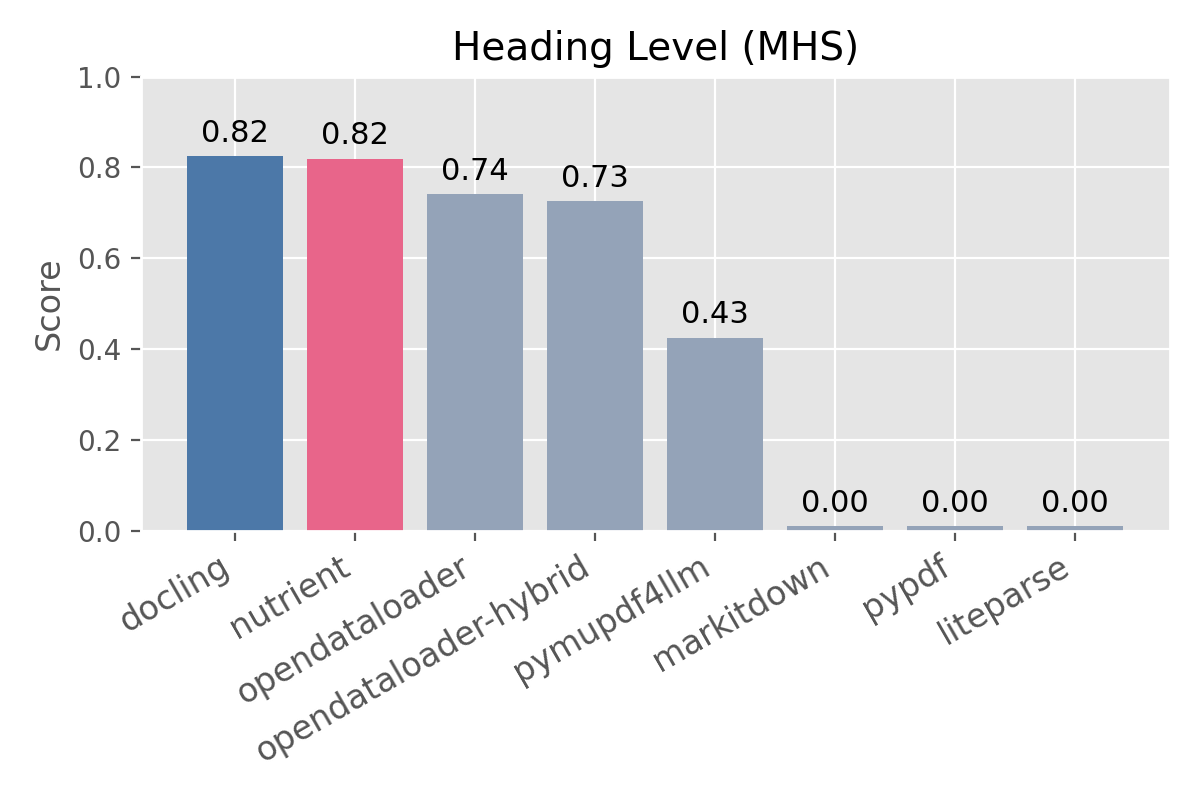
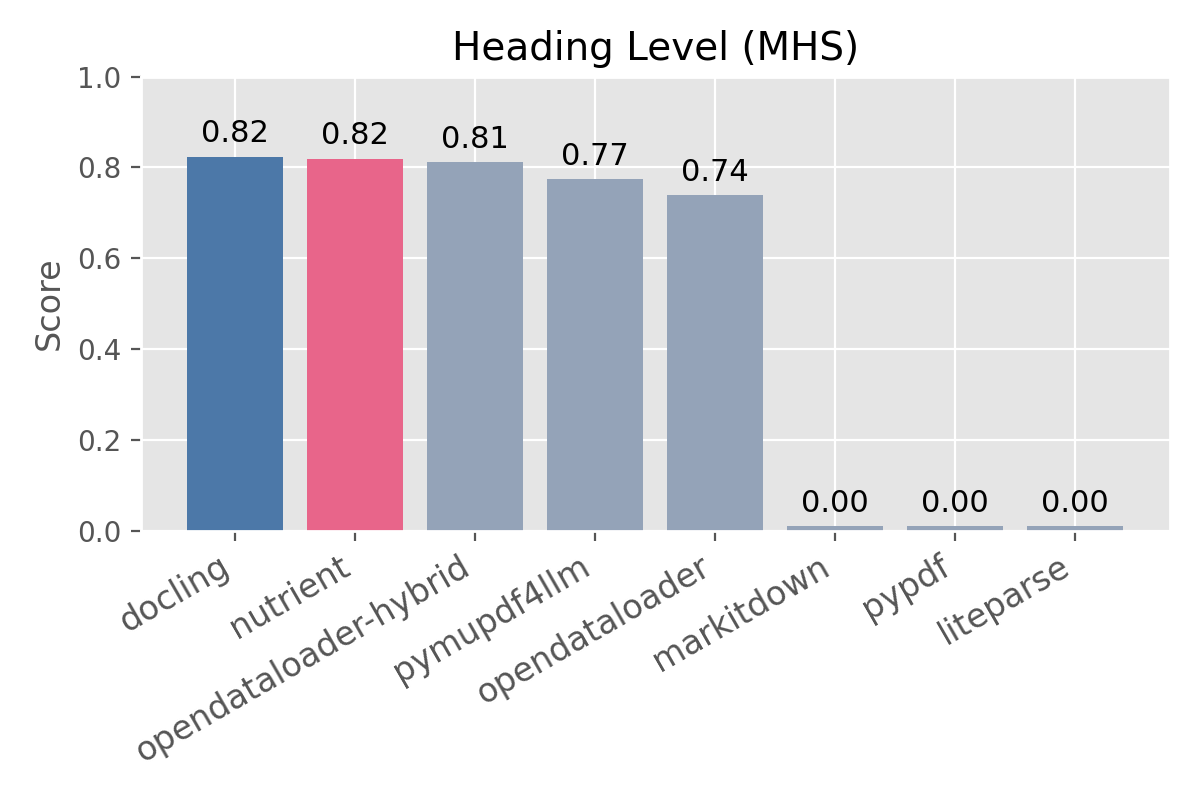
Release 0.2.2: re-benchmark with all latest competitor versions
- Re-run benchmarks with all competitors on latest versions
- Pin exact library versions in tables for transparency
- Fix ODL hybrid (was running without server, now properly configured)
- Key version bumps: pymupdf4llm 0.3.4→1.27.2, opendataloader 1.9.1→2.3.0,
  docling 2.71.0→2.91.0, markitdown 0.1.4→0.1.5
- Refresh chart images from April 23 run
- Bump version to 0.2.2

diff --git a/README.md b/README.md
@@ -14,7 +14,7 @@
 
 Fast, accurate Markdown from PDFs — locally, with no cleanup required. Built for Claude, Codex, RAG pipelines, and document-heavy automation where noisy extraction burns tokens and makes downstream results less reliable.
 
-- **How fast is it?** — 0.007s per page. 87x faster than docling, 10x faster than pymupdf4llm. ([benchmarks](#benchmarks))
+- **How fast is it?** — 0.011s per page. 48x faster than docling, 29x faster than pymupdf4llm. ([benchmarks](#benchmarks))
 - **How accurate is it?** — 0.93 reading order (best in class), 0.89 overall extraction accuracy, 0.82 heading detection. ([benchmarks](#benchmarks))
 - **NEW: Image export** — `--enable-image-export` extracts images alongside Markdown for vision-capable LLMs. ([usage](#image-export))
 - **Where do my PDFs go?** — Nowhere. The CLI runs locally. Your documents are not uploaded to Nutrient. ([trust & licensing](#trust-and-licensing))
@@ -124,56 +124,56 @@ Extracts images from the PDF and saves them to `output_resources/`, referenced a
 
 ## Benchmarks
 
-Benchmark results from 200 PDF documents with hand-annotated Markdown ground truth, evaluated using NID (reading order), TEDS (table structure), and MHS (heading hierarchy) metrics. Benchmarked on `2026-04-22`.
+Benchmark results from 200 PDF documents with hand-annotated Markdown ground truth, evaluated using NID (reading order), TEDS (table structure), and MHS (heading hierarchy) metrics. All competitor libraries pinned to their latest versions as of `2026-04-23`.
 
 ### Visual Snapshot
 
-![Extraction accuracy](https://raw.githubusercontent.com/PSPDFKit/pdf-to-markdown/main/docs/assets/extraction-accuracy.png?v=20260422)
+![Extraction accuracy](https://raw.githubusercontent.com/PSPDFKit/pdf-to-markdown/main/docs/assets/extraction-accuracy.png?v=20260423)
 
-![Reading order](https://raw.githubusercontent.com/PSPDFKit/pdf-to-markdown/main/docs/assets/reading-order.png?v=20260422)
+![Reading order](https://raw.githubusercontent.com/PSPDFKit/pdf-to-markdown/main/docs/assets/reading-order.png?v=20260423)
 
-![Table structure](https://raw.githubusercontent.com/PSPDFKit/pdf-to-markdown/main/docs/assets/table-structure.png?v=20260422)
+![Table structure](https://raw.githubusercontent.com/PSPDFKit/pdf-to-markdown/main/docs/assets/table-structure.png?v=20260423)
 
-![Heading level](https://raw.githubusercontent.com/PSPDFKit/pdf-to-markdown/main/docs/assets/heading-level.png?v=20260422)
+![Heading level](https://raw.githubusercontent.com/PSPDFKit/pdf-to-markdown/main/docs/assets/heading-level.png?v=20260423)
 
-![Extraction speed](https://raw.githubusercontent.com/PSPDFKit/pdf-to-markdown/main/docs/assets/extraction-speed.png?v=20260422)
+![Extraction speed](https://raw.githubusercontent.com/PSPDFKit/pdf-to-markdown/main/docs/assets/extraction-speed.png?v=20260423)
 
-![Faster with Nutrient](https://raw.githubusercontent.com/PSPDFKit/pdf-to-markdown/main/docs/assets/faster-with-nutrient.png?v=20260422)
+![Faster with Nutrient](https://raw.githubusercontent.com/PSPDFKit/pdf-to-markdown/main/docs/assets/faster-with-nutrient.png?v=20260423)
 
 ### Accuracy
 
-| Solution | Overall | Reading Order (NID) | Table Structure (TEDS) | Heading Level (MHS) |
-| --- | ---: | ---: | ---: | ---: |
-| **Nutrient** | **0.89** | **0.93** | 0.71 | 0.82 |
-| docling | 0.88 | 0.90 | **0.89** | **0.82** |
-| opendataloader | 0.84 | 0.91 | 0.49 | 0.74 |
-| opendataloader-hybrid | 0.83 | 0.92 | 0.43 | 0.73 |
-| pymupdf4llm | 0.74 | 0.89 | 0.40 | 0.43 |
-| markitdown | 0.58 | 0.88 | 0.00 | 0.00 |
-| pypdf | 0.58 | 0.87 | 0.00 | 0.00 |
-| liteparse | 0.57 | 0.86 | 0.00 | 0.00 |
+| Solution | Version | Overall | Reading Order (NID) | Table Structure (TEDS) | Heading Level (MHS) |
+| --- | --- | ---: | ---: | ---: | ---: |
+| **Nutrient** | 2.0.2 | **0.89** | **0.93** | 0.71 | 0.82 |
+| docling | 2.91.0 | 0.88 | 0.90 | **0.89** | **0.82** |
+| opendataloader-hybrid | 2.3.0 | 0.87 | 0.91 | 0.68 | 0.81 |
+| pymupdf4llm | 1.27.2 | 0.83 | 0.89 | 0.54 | 0.77 |
+| opendataloader | 2.3.0 | 0.83 | 0.90 | 0.48 | 0.74 |
+| markitdown | 0.1.5 | 0.59 | 0.84 | 0.27 | 0.00 |
+| pypdf | 6.10.2 | 0.58 | 0.87 | 0.00 | 0.00 |
+| liteparse | 1.2.1 | 0.57 | 0.86 | 0.00 | 0.00 |
 
 ### Speed
 
 | Solution | Seconds per page |
 | --- | ---: |
-| **Nutrient** | **0.007** |
-| pypdf | 0.017 |
-| markitdown | 0.038 |
-| opendataloader-hybrid | 0.048 |
-| pymupdf4llm | 0.071 |
-| opendataloader | 0.079 |
-| docling | 0.610 |
-| liteparse | 1.033 |
+| **Nutrient** | **0.011** |
+| pypdf | 0.019 |
+| opendataloader | 0.023 |
+| markitdown | 0.097 |
+| pymupdf4llm | 0.319 |
+| opendataloader-hybrid | 0.444 |
+| docling | 0.527 |
+| liteparse | 1.081 |
 
 ### Faster with Nutrient
 
-- `147x` faster than `liteparse`
-- `87x` faster than `docling`
-- `11x` faster than `opendataloader`
-- `10x` faster than `pymupdf4llm`
-- `7x` faster than `opendataloader-hybrid`
-- `5x` faster than `markitdown`
+- `98x` faster than `liteparse`
+- `48x` faster than `docling`
+- `40x` faster than `opendataloader-hybrid`
+- `29x` faster than `pymupdf4llm`
+- `9x` faster than `markitdown`
+- `2x` faster than `opendataloader`
 
 For the full comparison table, see [docs/benchmarks.md](docs/benchmarks.md).
 
@@ -191,7 +191,7 @@ See [LICENSE.md](LICENSE.md) for the full terms and [docs/distribution-model.md]
 
 ### What makes this different from other PDF extractors?
 
-Speed and accuracy should not be a tradeoff. Most extractors are either fast but lose structure (markitdown, pymupdf4llm) or accurate but slow (docling). Nutrient extracts at 0.007s per page with the best reading order score (0.93), strong heading and table preservation — less cleanup, fewer wasted tokens, and more reliable downstream results.
+Speed and accuracy should not be a tradeoff. Most extractors are either fast but lose structure (markitdown, pymupdf4llm) or accurate but slow (docling). Nutrient extracts at 0.011s per page with the best reading order score (0.93), strong heading and table preservation — less cleanup, fewer wasted tokens, and more reliable downstream results.
 
 ### Do my documents leave my machine?
 

diff --git a/docs/benchmarks.md b/docs/benchmarks.md
@@ -2,43 +2,44 @@
 
 Evaluated on 200 PDF documents with hand-annotated Markdown ground truth from the DP-Bench corpus.
 
-- Benchmark date: `2026-04-22`
+- Benchmark date: `2026-04-23`
 - Corpus: 200 documents with ground-truth Markdown annotations (42 with tables, 107 with headings)
+- Hardware: Apple M4 Max
 - Metrics: NID (reading order), TEDS (table structure), MHS (heading hierarchy)
 - All scores normalized to [0, 1] — higher is better
+- All competitor libraries pinned to their latest versions
 
 ## Accuracy Metrics
 
-| Solution | Extraction accuracy | Reading order (NID) | Table structure (TEDS) | Heading level (MHS) |
-| --- | ---: | ---: | ---: | ---: |
-| **Nutrient** | **0.89** | **0.93** | 0.71 | 0.82 |
-| docling | 0.88 | 0.90 | **0.89** | **0.82** |
-| opendataloader | 0.84 | 0.91 | 0.49 | 0.74 |
-| opendataloader-hybrid | 0.83 | 0.92 | 0.43 | 0.73 |
-| pymupdf4llm | 0.74 | 0.89 | 0.40 | 0.43 |
-| markitdown | 0.58 | 0.88 | 0.00 | 0.00 |
-| pypdf | 0.58 | 0.87 | 0.00 | 0.00 |
-| liteparse | 0.57 | 0.86 | 0.00 | 0.00 |
+| Solution | Version | Extraction accuracy | Reading order (NID) | Table structure (TEDS) | Heading level (MHS) |
+| --- | --- | ---: | ---: | ---: | ---: |
+| **Nutrient** | 2.0.2 | **0.89** | **0.93** | 0.71 | 0.82 |
+| docling | 2.91.0 | 0.88 | 0.90 | **0.89** | **0.82** |
+| opendataloader-hybrid | 2.3.0 | 0.87 | 0.91 | 0.68 | 0.81 |
+| pymupdf4llm | 1.27.2 | 0.83 | 0.89 | 0.54 | 0.77 |
+| opendataloader | 2.3.0 | 0.83 | 0.90 | 0.48 | 0.74 |
+| markitdown | 0.1.5 | 0.59 | 0.84 | 0.27 | 0.00 |
+| pypdf | 6.10.2 | 0.58 | 0.87 | 0.00 | 0.00 |
+| liteparse | 1.2.1 | 0.57 | 0.86 | 0.00 | 0.00 |
 
 ## Speed
 
 | Solution | Seconds per page |
 | --- | ---: |
-| **Nutrient** | **0.007** |
-| pypdf | 0.017 |
-| markitdown | 0.038 |
-| opendataloader-hybrid | 0.048 |
-| pymupdf4llm | 0.071 |
-| opendataloader | 0.079 |
-| docling | 0.610 |
-| liteparse | 1.033 |
+| **Nutrient** | **0.011** |
+| pypdf | 0.019 |
+| opendataloader | 0.023 |
+| markitdown | 0.097 |
+| pymupdf4llm | 0.319 |
+| opendataloader-hybrid | 0.444 |
+| docling | 0.527 |
+| liteparse | 1.081 |
 
 ## Relative Speed Callouts
 
-- Nutrient is `147x` faster than `liteparse`
-- Nutrient is `87x` faster than `docling`
-- Nutrient is `11x` faster than `opendataloader`
-- Nutrient is `10x` faster than `pymupdf4llm`
-- Nutrient is `7x` faster than `opendataloader-hybrid`
-- Nutrient is `5x` faster than `markitdown`
-- Nutrient is `2x` faster than `pypdf`
+- Nutrient is `98x` faster than `liteparse`
+- Nutrient is `48x` faster than `docling`
+- Nutrient is `40x` faster than `opendataloader-hybrid`
+- Nutrient is `29x` faster than `pymupdf4llm`
+- Nutrient is `9x` faster than `markitdown`
+- Nutrient is `2x` faster than `opendataloader`

diff --git a/CHANGELOG.md b/CHANGELOG.md
@@ -1,5 +1,15 @@
 # Changelog
 
+## 0.2.2 — 2026-04-23
+
+- Re-run benchmarks with all competitor libraries updated to latest versions
+- Pin exact library versions in benchmark tables for transparency
+- Fix ODL hybrid scoring (was running without docling backend server, producing degraded results)
+- pymupdf4llm updated 0.3.4 → 1.27.2 (major version bump, significant quality improvement)
+- markitdown updated 0.1.4 → 0.1.5 (table extraction restored)
+- opendataloader-pdf updated 1.9.1 → 2.3.0
+- docling updated 2.71.0 → 2.91.0
+
 ## 0.2.1 — 2026-04-22
 
 - Add `--enable-image-export` flag: extracts images to `{output}_resources/` and references them as Markdown image links (off by default)
